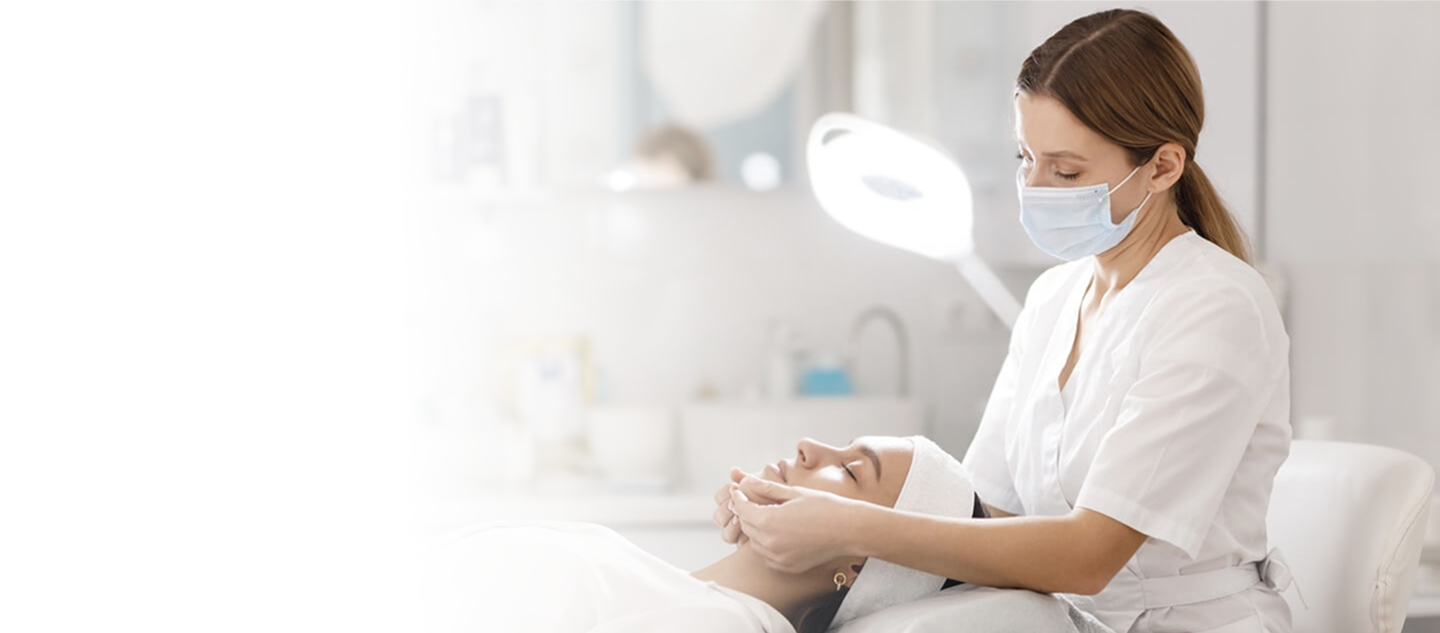
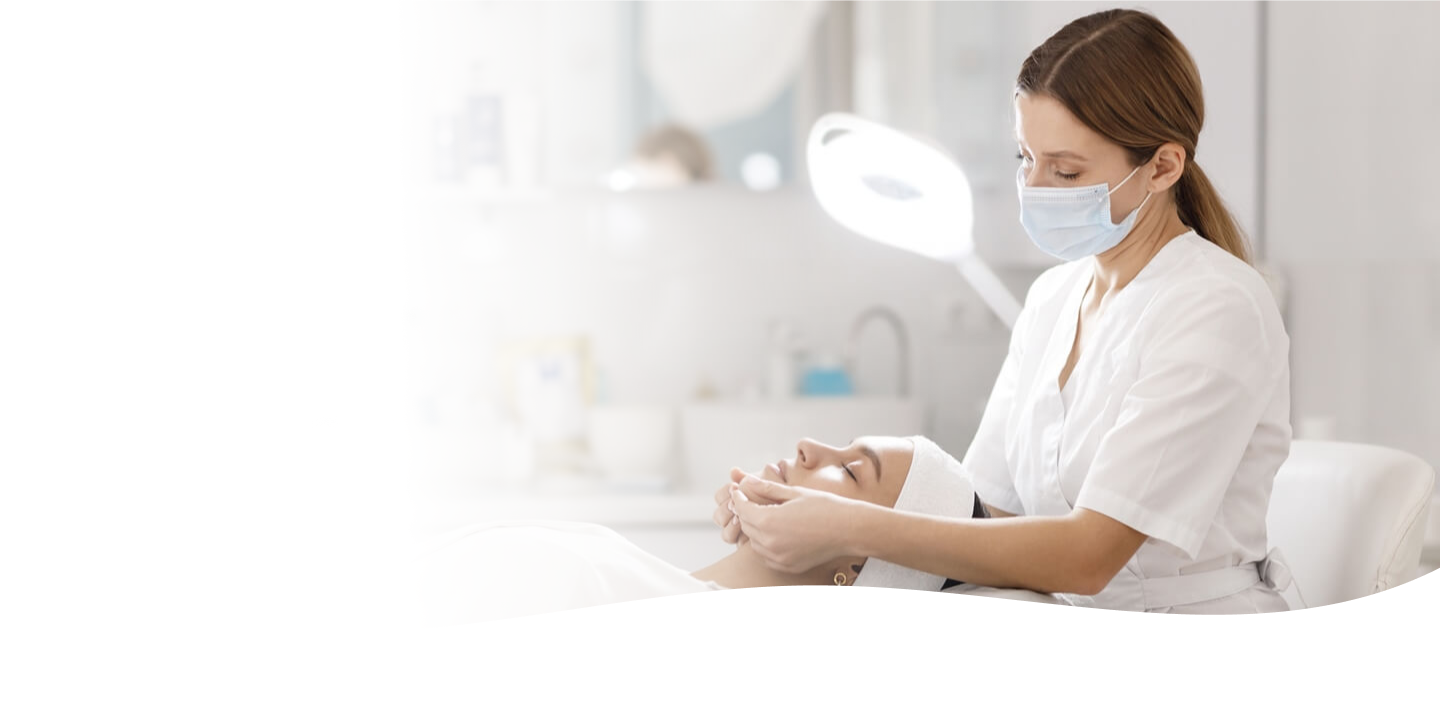
мои слёзы

diff --git a/css/styles.css b/css/styles.css
@@ -194,15 +194,7 @@ a {
 /* первая секция */
 .hero-section {
   padding: 122px 0 126px 0;
-  background-image:
-    linear-gradient(
-      89.38deg,
-      #ffffff 30.62%,
-      rgba(255, 255, 255, 0.850898) 41.31%,
-      rgba(255, 255, 255, 0.193204) 58.65%,
-      rgba(255, 255, 255, 0) 72.78%
-    ),
-    url('../images/girle-procedure.png');
+  background-image: url('../images/girle-procedure.png');
   background-size: contain;
   background-repeat: no-repeat;
   background-position: center top;
@@ -365,15 +357,8 @@ a {
   padding: 88px 0 48px 0;
 }
 .section-why-us-section {
-  background-image:
-    url(../images/background-why-us.png),
-    linear-gradient(
-      38.2deg,
-      rgba(43, 127, 255, 0.2) 39.74%,
-      rgba(43, 127, 255, 0) 54.16%,
-      rgba(43, 127, 255, 0) 66.66%
-    );
-  background-size: contain;
+  background-image: url(../images/background-why-us.png);
+  background-size: cover;
   background-repeat: no-repeat;
   background-position: center top;
 }

diff --git a/index.html b/index.html
@@ -306,7 +306,8 @@
                   href="https://maps.app.goo.gl/U7aw1rbhZUy4srry8"
                   target="_blank"
                 >
-                  Україна, м. Київ, вул. Тараса Шевченка 5
+                  Україна, м. Київ, <br />
+                  вул. Тараса Шевченка 5
                 </a>
               </li>
             </ul>
